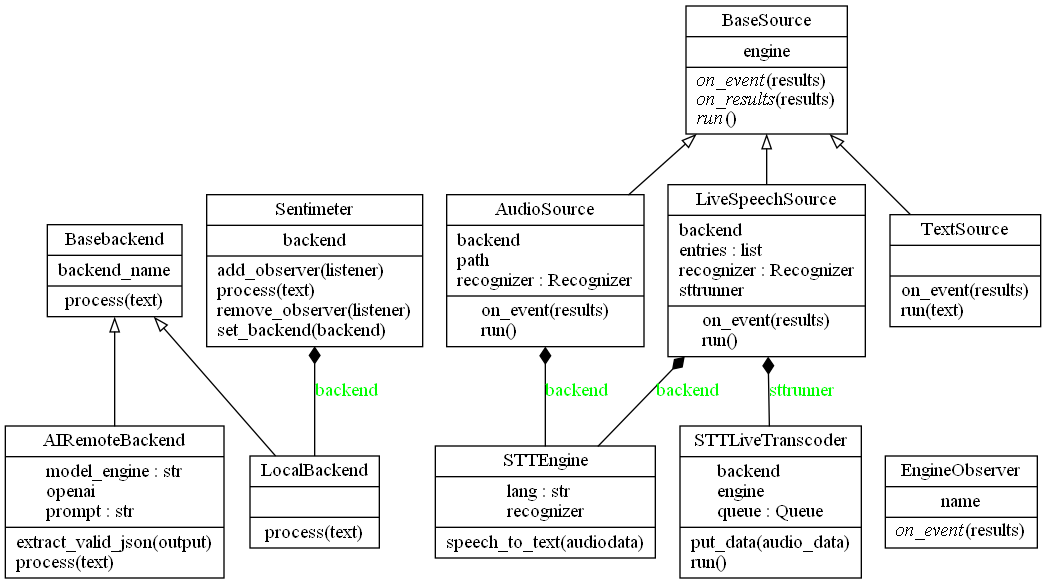
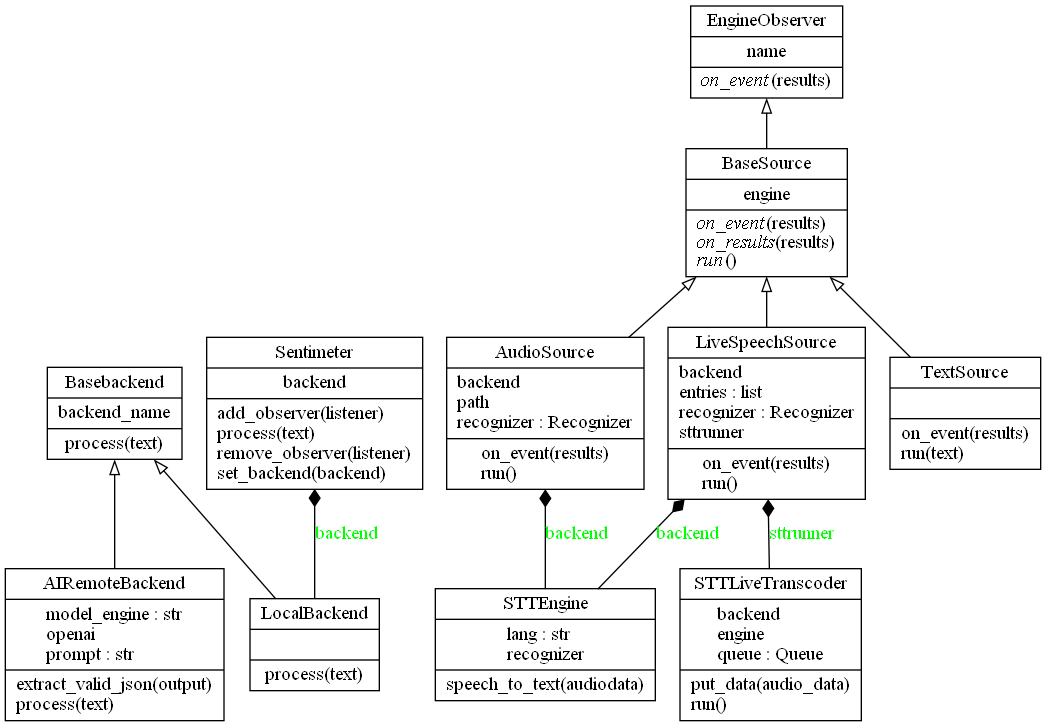
Rolling out 0.0.4 Version

diff --git a/src/sentimeter/sentimeter.py b/src/sentimeter/sentimeter.py
@@ -1,29 +1,44 @@
-import logging
 from sentimeter.local_backend import LocalBackend
+from sentimeter.engine_observer import EngineObserver
 
+# HAPPY = "Happy"
+# SAD = "Sad"
+# FEAR = "Fear"
+# ANGRY = "Angry"
+# SURPRISE = "Surprise"
 TEXT = "Text"
+
+import logging
 
 
 class Sentimeter:
+    """Class Responsible for the middleware operations"""
+
     def __init__(self) -> None:
+        """constructor"""
         self.backend = LocalBackend()
         self.__listeners = []
         self._enable_logging(logging.DEBUG)
 
     def _enable_logging(self, lev):
+        """enables logging"""
         logging.basicConfig(level=lev, format="[Sentimeter] [%(levelname)-5.5s]  %(message)s")
 
     def set_backend(self, backend):
+        """API to switch the backend"""
         self.backend = backend
         logging.info("Switched to Backend " + self.backend.backend_name)
 
     def add_observer(self, listener):
+        """capture the emotions by adding yourself as observer"""
         self.__listeners.append(listener)
 
     def remove_observer(self, listener):
+        """remove the observer"""
         self.__listeners.remove(listener)
 
     def process(self, text):
+        """The runner"""
         result = {}
         result = self.backend.process(text)
         result[TEXT] = text

diff --git a/src/sentimeter/file_audio_source.py b/src/sentimeter/file_audio_source.py
@@ -1,16 +1,18 @@
 import logging
 import os
+import json
 from pydub import AudioSegment
 from pydub.silence import split_on_silence
 import speech_recognition as sr
-
 from sentimeter.sources import BaseSource
 from sentimeter.speech_to_text import STTEngine
 
-import json
-
 
 class AudioSource(BaseSource):
+    """Sentimeter source for audio files. Currently support only Wav file.
+    TODO: Integrate other formats
+    """
+
     def __init__(self, engine, path) -> None:
         super().__init__(engine)
         self.recognizer = sr.Recognizer()
@@ -18,6 +20,11 @@ class AudioSource(BaseSource):
         self.path = path
 
     def run(self):
+        # Protecting for .wav
+        if self.path.endswith(".wav") == False:
+            logging.critical("Unsupported audio format.")
+            return False
+
         transcription = ""
         logging.info("Processing Audio File %s", self.path)
         logging.info("Depending on the Size of Audio , The process takes some time, Have a coffee !")
@@ -53,6 +60,6 @@ class AudioSource(BaseSource):
         return True
 
     def on_event(self, results):
-        logging.info("Results in JSON follows")
+        logging.info("\n\n Results Summary \n\n")
         logging.info(json.dumps(results))
         pass

diff --git a/src/sentimeter/sources.py b/src/sentimeter/sources.py
@@ -1,9 +1,15 @@
-from sentimeter.sentimeter import EngineObserver
+#!/usr/bin/env python
+# -*- coding: utf-8 -*-
+import logging
+from sentimeter.engine_observer import EngineObserver
 
 
 class BaseSource(EngineObserver):
     def __init__(self, engine) -> None:
-        """ """
+        """The Source Base class
+        The class can be inherited to implement own run methods
+        When a Source is created, it register with the engine as observer to process the events
+        """
         # register to the app
         engine.add_observer(self)
         self.engine = engine
@@ -14,6 +20,7 @@ class BaseSource(EngineObserver):
         pass
 
     def on_results(self, results):
+        """Unused for now"""
         pass
 
     def on_event(self, results):
@@ -24,6 +31,10 @@ class BaseSource(EngineObserver):
 
 
 class TextSource(BaseSource):
+    """The simplest SentimeterSource
+    The Instance can be created and executed with plain text
+    """
+
     def __init__(self, engine) -> None:
         super().__init__(engine)
         pass
@@ -33,4 +44,5 @@ class TextSource(BaseSource):
         return True
 
     def on_event(self, results):
-        print(results)
+        """Just print it"""
+        logging.info(results)

diff --git a/apps/telegram.py b/apps/telegram.py
@@ -16,6 +16,8 @@ CHATGPT_KEY = os.environ.get("OPENAI_KEY")
 
 
 class TelebotResponder(EngineObserver):
+    """Class which responds to a message with the emotions found in the message"""
+
     def __init__(self, engine, bot, message) -> None:
         self.message = message
         super().__init__("Telegrambot")
@@ -36,12 +38,16 @@ class TelebotResponder(EngineObserver):
 
 
 class SentimeterTelegramBot(BaseSource):
+    """Custom Telegram Source and register it with Engine"""
+
     def __init__(self, engine, bot_key) -> None:
         super().__init__(engine)
         self.bot = telebot.TeleBot(bot_key)
         self.engine = Sentimeter()
 
     def run(self):
+        """Runner"""
+
         @self.bot.message_handler(commands=["start"])
         def send_welcome(message):
             self.bot.reply_to(message, "Welcome to my bot!")
@@ -56,6 +62,7 @@ class SentimeterTelegramBot(BaseSource):
 
 
 def main():
+    """The main"""
     if len(sys.argv) < 2:
         logging.critical("Error : Bot KEY must be presented")
         sys.exit(-1)
@@ -66,6 +73,7 @@ def main():
 
 
 def signal_handler(sig, frame):
+    """for safe exit ctrl-c"""
     sys.exit(0)
 
 

diff --git a/apps/text_file.py b/apps/text_file.py
@@ -4,14 +4,17 @@ import os
 sys.path.append("..\src")
 from sentimeter.sentimeter import Sentimeter
 from sentimeter.sources import TextSource
-from sentimeter.chatgpt_backend import AIRemoteBackend
 
-CHATGPT_KEY = os.environ.get("OPENAI_KEY")
+instance = Sentimeter()
 
-app = Sentimeter()
+# from sentimeter.chatgpt_backend import AIRemoteBackend
+# CHATGPT_KEY = os.environ.get("OPENAI_KEY")
+# Lets create the instance
 # By default the app uses a local backend.We can use ChatGPT also as backend
-backend = AIRemoteBackend(CHATGPT_KEY)
-app.set_backend(backend)
-source = TextSource(app)
-# source.run("OpenAI is such an amazing thing , i really do not know how it works , It makes life easier")
+# backend = AIRemoteBackend(CHATGPT_KEY)
+# Set the experimental engine as backend
+# instance.set_backend(backend)
+# start the process
+
+source = TextSource(instance)
 source.run("I am down with fever, Its really annoying")

diff --git a/src/sentimeter/chatgpt_backend.py b/src/sentimeter/chatgpt_backend.py
@@ -4,6 +4,10 @@ from sentimeter.backend import Basebackend
 
 
 class AIRemoteBackend(Basebackend):
+    """
+    Experimental ChatGPT backend
+    """
+
     def __init__(self, OPENAI_KEY) -> None:
         super().__init__("ChatGPT")
         self.openai = openai
@@ -16,10 +20,12 @@ class AIRemoteBackend(Basebackend):
         """
 
     def extract_valid_json(self, output):
+        """Chatgpt sometimes returns non json text, lets strip it"""
         res = output[output.index("{") : output.index("}") + 1]
         return res
 
     def process(self, text):
+        """Lets ask the badass !"""
         data = {}
         prompt_with_input = self.prompt + text
         completion = openai.Completion.create(

diff --git a/src/sentimeter/local_backend.py b/src/sentimeter/local_backend.py
@@ -3,10 +3,16 @@ from sentimeter.backend import Basebackend
 
 
 class LocalBackend(Basebackend):
+    """The Backend which uses text2emotion module.
+    TODO: Create own Spacy based emotion recognition
+    """
+
     def __init__(self) -> None:
+        """Constructor with a name"""
         super().__init__("Local")
 
     def process(self, text):
+        """The Runner"""
         data = {}
         data = te.get_emotion(text)
         return data

diff --git a/src/sentimeter/backend.py b/src/sentimeter/backend.py
@@ -1,4 +1,8 @@
 class Basebackend:
+    """The Backend class, Abstract
+    Provides an interface to engine to customize the backend
+    """
+
     def __init__(self, backend_name) -> None:
         self.backend_name = backend_name
 
